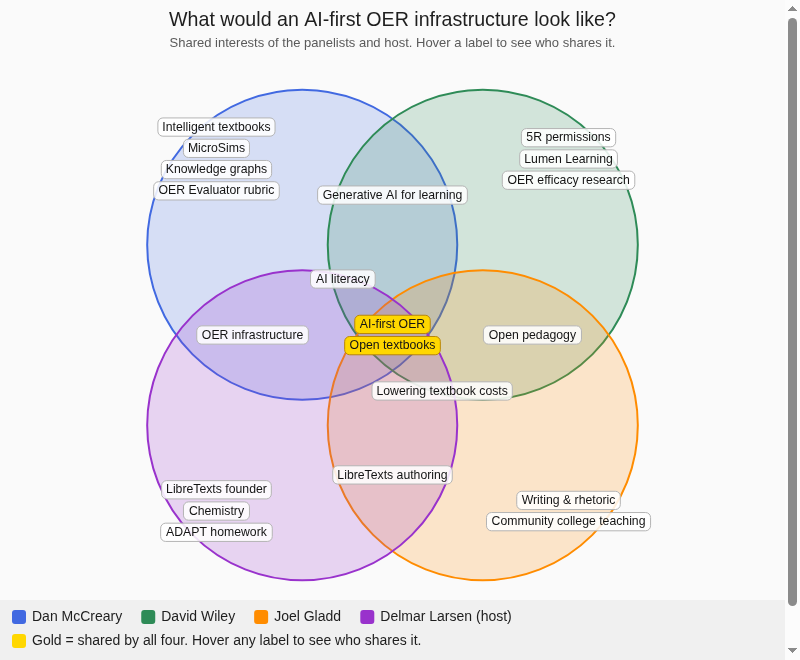
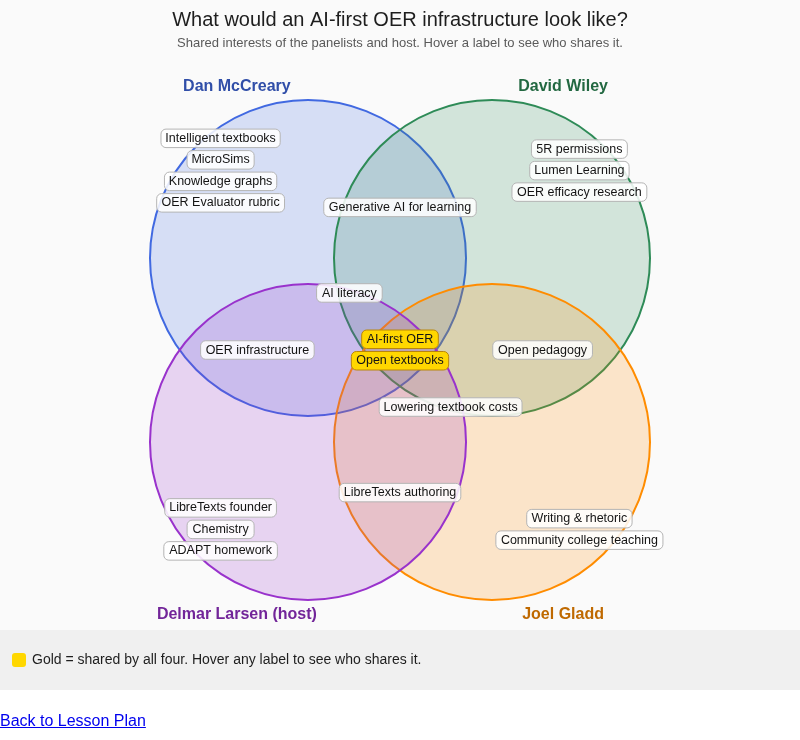
Venn MicroSim: place each person's name at the outer edge of their circle

Changed region(s): [[0.0, 0.0, 0.8438, 1.0], [0.9688, 0.0303, 1.0, 0.9091]]

diff --git a/docs/sims/ai-first-oer-panel-venn/ai-first-oer-panel-venn.js b/docs/sims/ai-first-oer-panel-venn/ai-first-oer-panel-venn.js
@@ -1,5 +1,5 @@
 // AI-First OER Panel Interest Venn MicroSim (p5.js)
-// CANVAS_HEIGHT: 660
+// CANVAS_HEIGHT: 690
 // Four translucent circles, one per panelist plus the host. Gold labels mark interests
 // all four share. Hover any label to see who shares it. Interests come from public pages
 // and email; see index.md Sources. Edit the PEOPLE and REGIONS blocks to update.
@@ -26,7 +26,7 @@ const REGIONS = [
   { who: 'L', labels: ['LibreTexts founder', 'Chemistry', 'ADAPT homework'] }
 ];
 
-const DRAW_H = 600, CTRL_H = 60;
+const DRAW_H = 630, CTRL_H = 60;
 let W = 800, items = [], hovered = null;
 
 function setup() {
@@ -71,6 +71,20 @@ function draw() {
     fill(p.col[0], p.col[1], p.col[2], 50); stroke(p.col[0], p.col[1], p.col[2]); strokeWeight(2);
     circle(x, y, 2 * g.r);
   }
+  // names on the outer edge of each circle
+  textStyle(BOLD); textSize(16 * max(g.s, 0.8)); noStroke();
+  for (const p of PEOPLE) {
+    const [x, y] = g.ctr[p.key];
+    const top = p.key === 'D' || p.key === 'W';
+    const left = p.key === 'D' || p.key === 'L';
+    const t = p.name + (p.key === 'L' ? ' (host)' : '');
+    const tw = textWidth(t);
+    let nx = x + (left ? -1 : 1) * g.r * 0.45;
+    nx = constrain(nx, tw / 2 + 6, W - tw / 2 - 6);
+    const ny = y + (top ? -1 : 1) * (g.r + 14 * max(g.s, 0.8));
+    fill(p.col[0] * 0.75, p.col[1] * 0.75, p.col[2] * 0.75);
+    textAlign(CENTER, CENTER); text(t, nx, ny);
+  }
   textStyle(NORMAL);
   items = []; hovered = null;
   const ts = 12.5 * max(g.s, 0.75);
@@ -100,14 +114,8 @@ function draw() {
     const names = PEOPLE.filter(p => hovered.who.includes(p.key)).map(p => p.name);
     text('"' + hovered.lab + '" is shared by: ' + names.join(', '), 12, DRAW_H + CTRL_H / 2);
   } else {
-    let x = 12;
-    for (const p of PEOPLE) {
-      fill(p.col[0], p.col[1], p.col[2]); rect(x, DRAW_H + 10, 14, 14, 3);
-      fill(30); const t = p.name + (p.key === 'L' ? ' (host)' : '');
-      text(t, x + 20, DRAW_H + 17); x += textWidth(t) + 40;
-    }
-    fill(255, 215, 0); rect(12, DRAW_H + 34, 14, 14, 3);
-    fill(30); text('Gold = shared by all four. Hover any label to see who shares it.', 32, DRAW_H + 41);
+    fill(255, 215, 0); rect(12, DRAW_H + 23, 14, 14, 3);
+    fill(30); text('Gold = shared by all four. Hover any label to see who shares it.', 32, DRAW_H + 30);
   }
 }
 

diff --git a/docs/sims/ai-first-oer-panel-venn/index.md b/docs/sims/ai-first-oer-panel-venn/index.md
@@ -11,7 +11,7 @@ status: built
 
 # AI-First OER Panel Interest Venn
 
-<iframe src="main.html" height="662px" width="100%" scrolling="no"></iframe>
+<iframe src="main.html" height="692px" width="100%" scrolling="no"></iframe>
 
 [Run the AI-First OER Panel Venn MicroSim Fullscreen](./main.html){ .md-button .md-button--primary }
 [Send Feedback](https://github.com/dmccreary/oer-evaluator/issues/new?title=AI-First%20OER%20Panel%20Venn%20feedback){ .md-button }
@@ -20,7 +20,7 @@ You can add this MicroSim to any web page with this `iframe`:
 
 ```html
 <iframe src="https://dmccreary.github.io/oer-evaluator/sims/ai-first-oer-panel-venn/main.html"
-        height="662px"
+        height="692px"
         width="100%"
         scrolling="no"></iframe>
 ```
